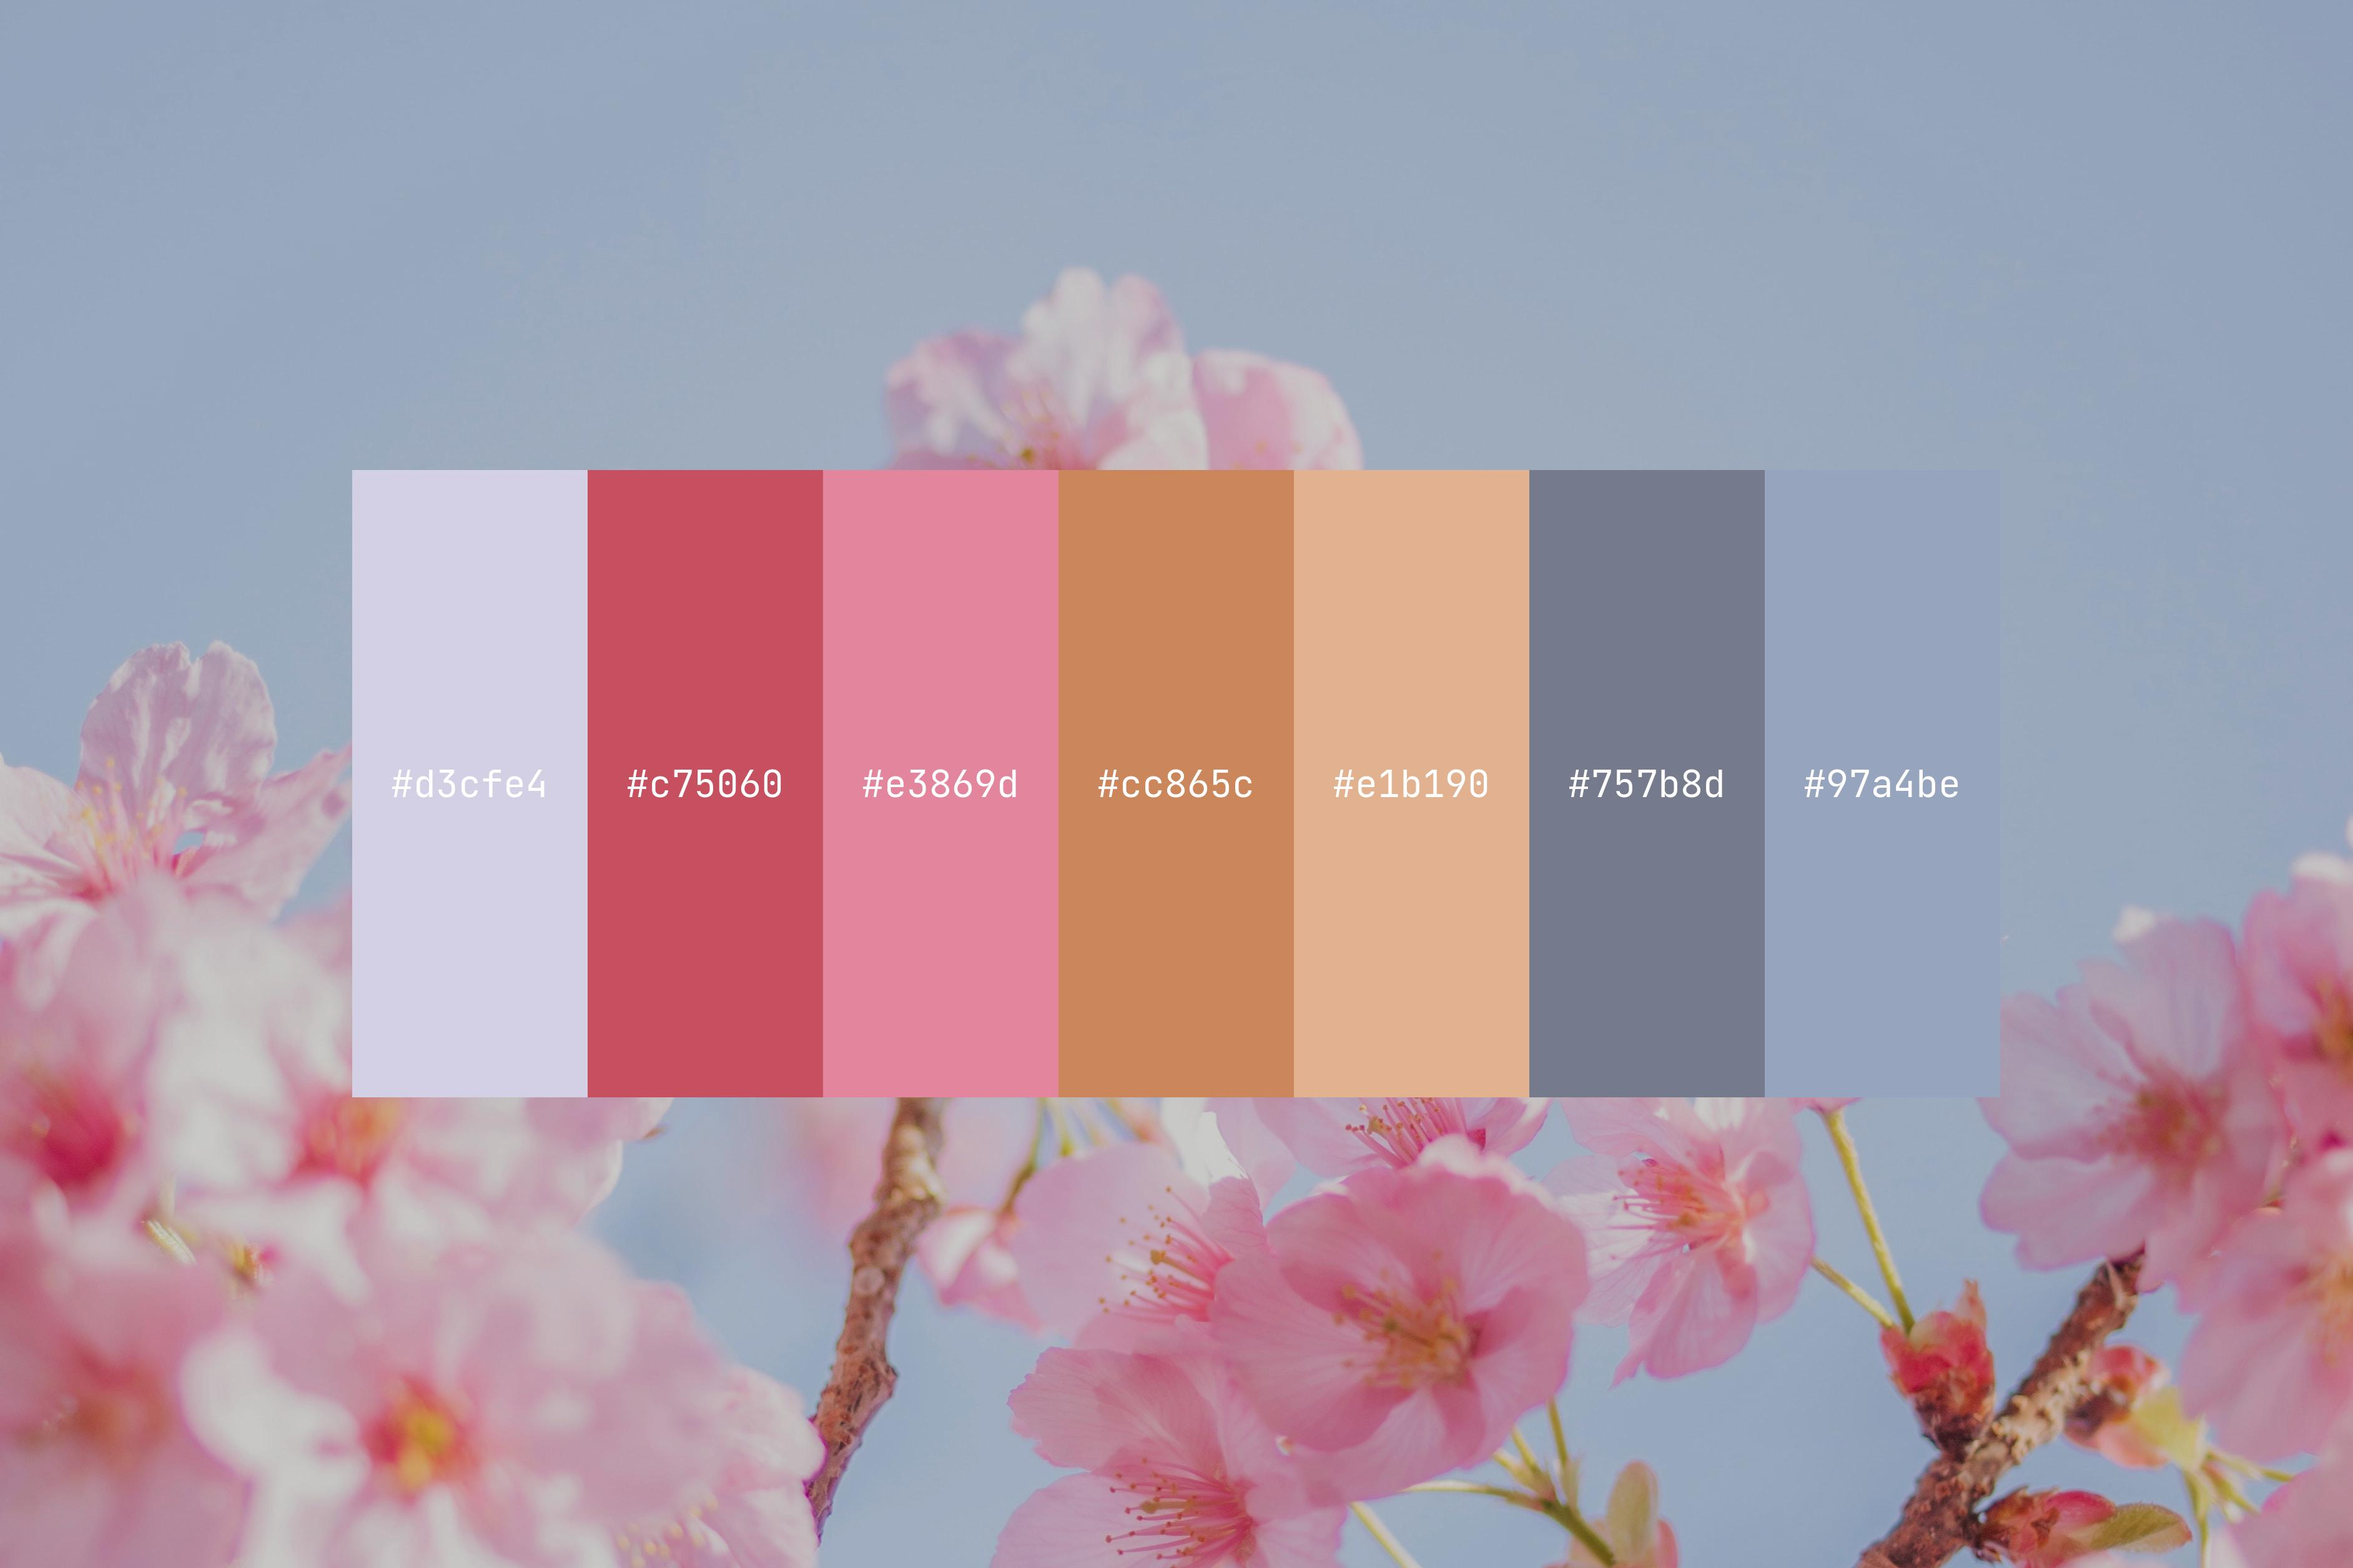
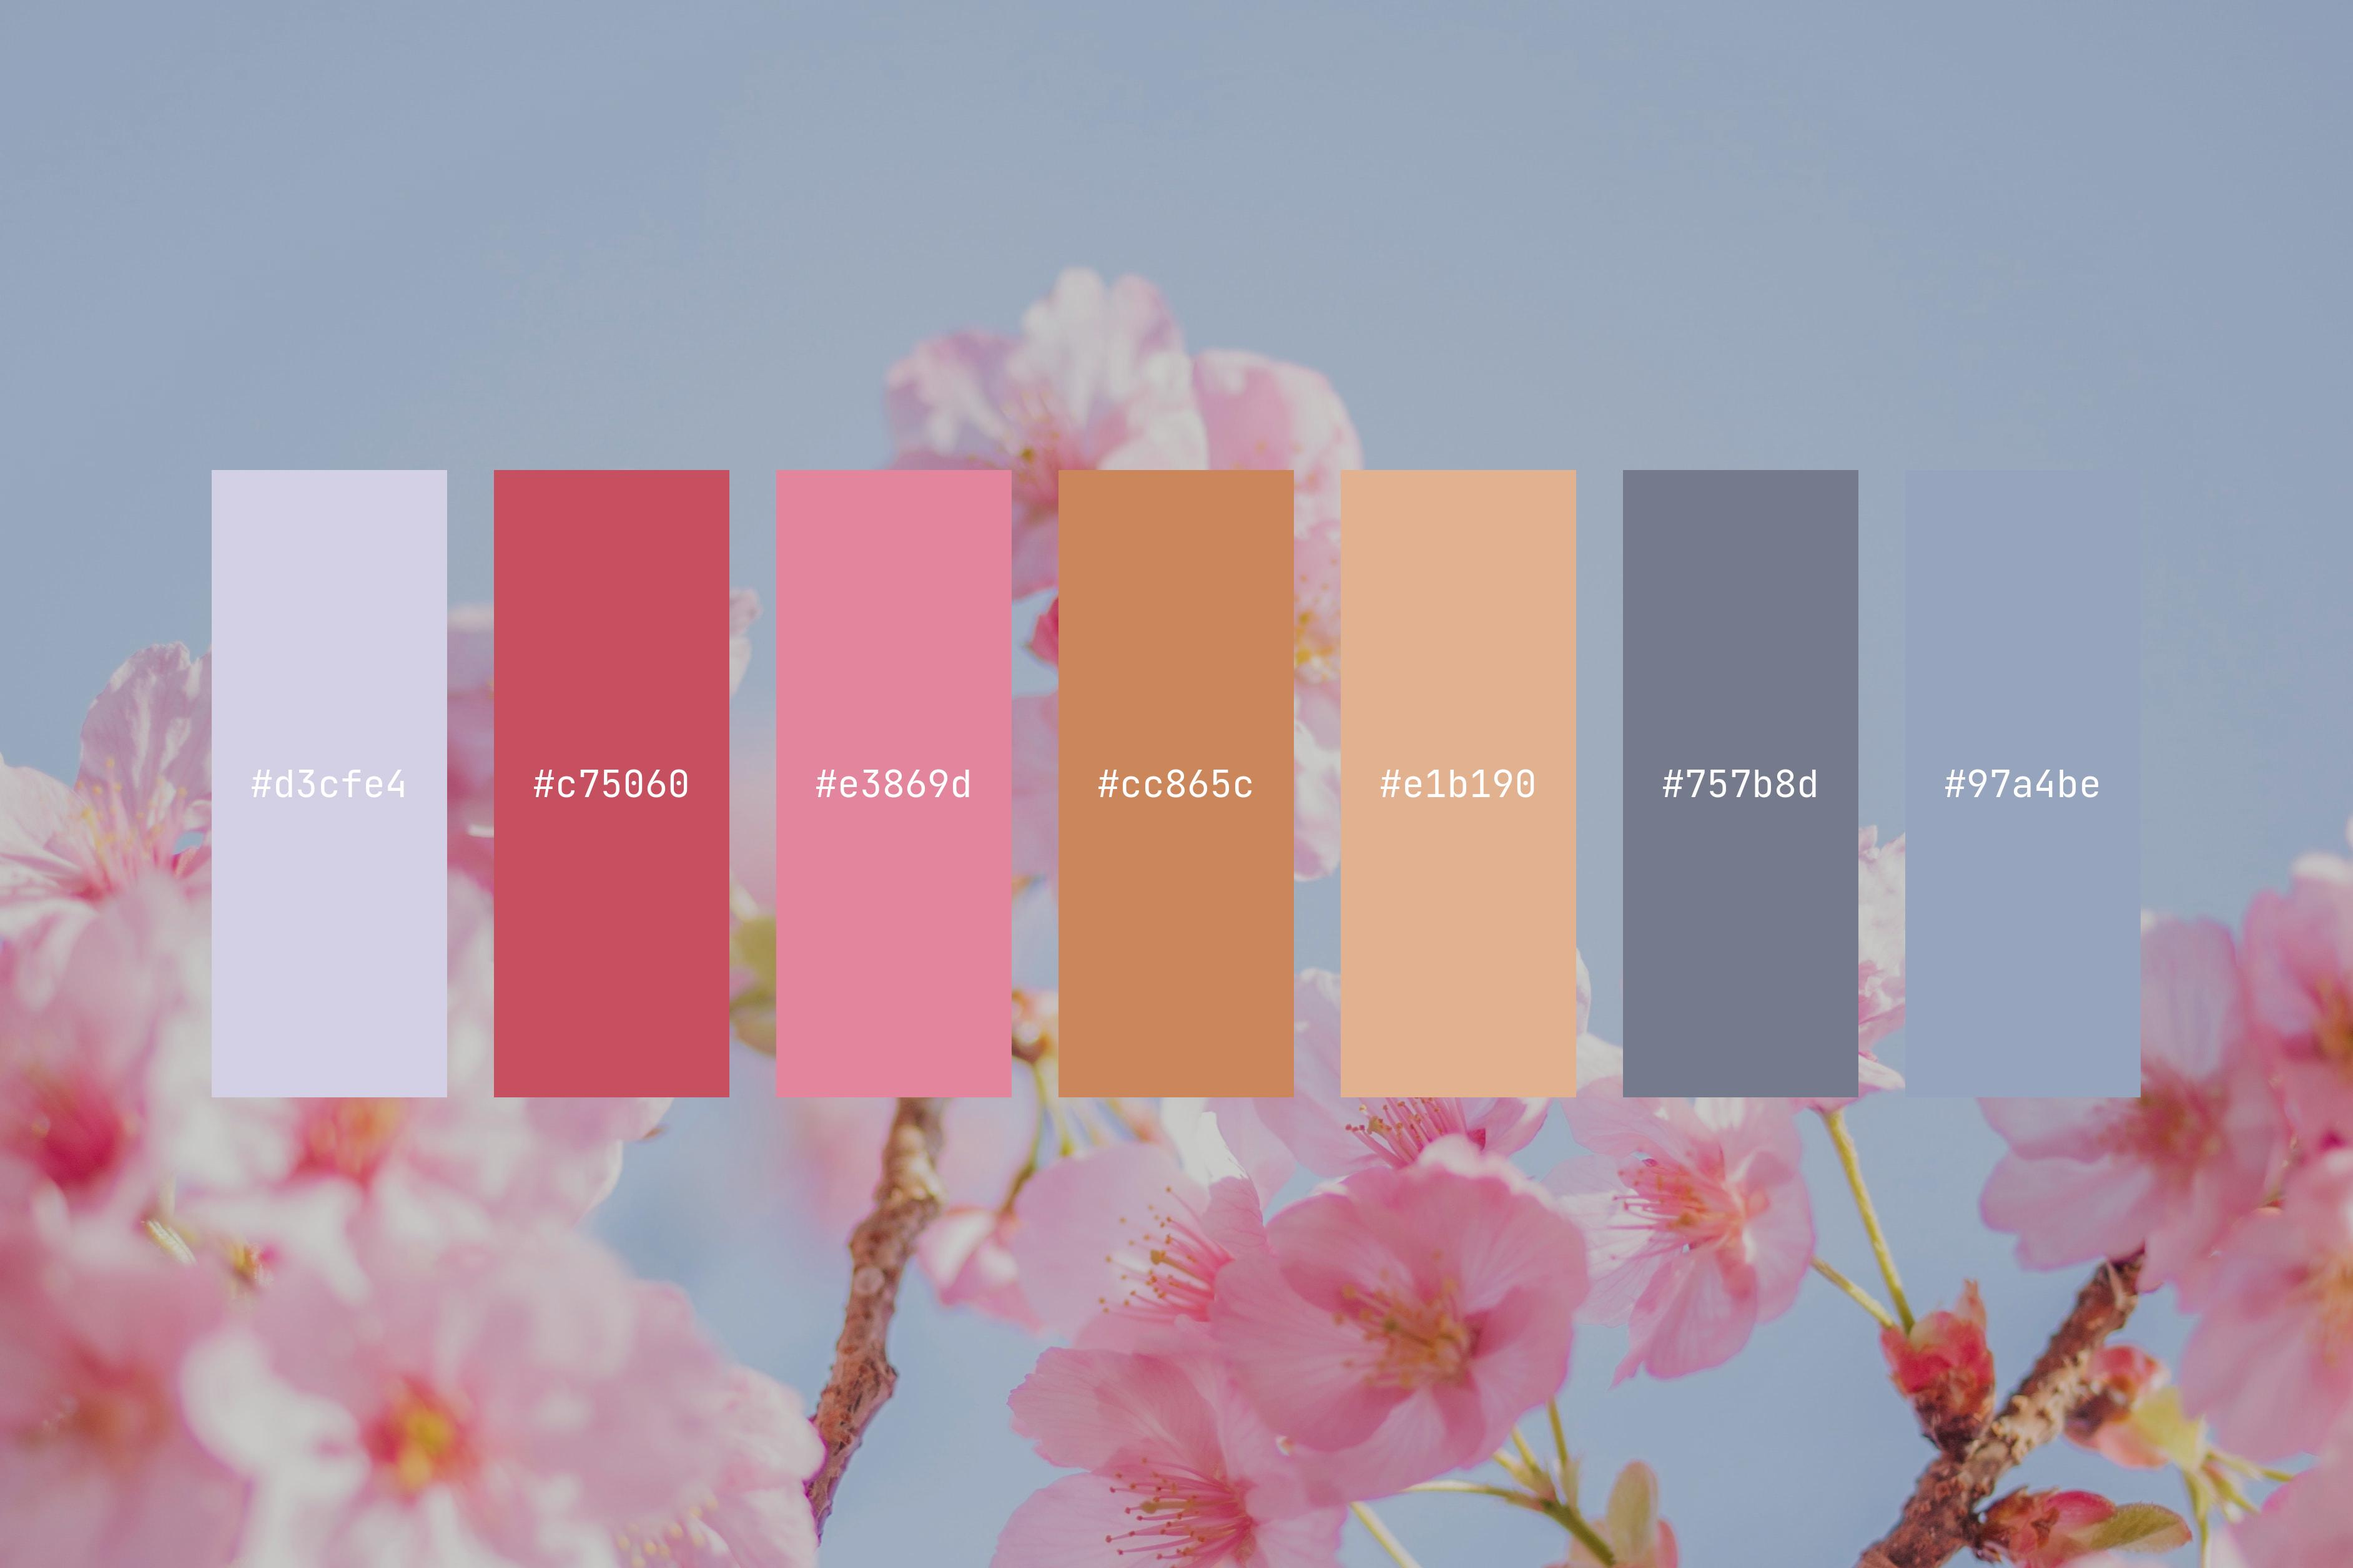
gap between blocks added

Changed region(s): [[0.0621, 0.2795, 0.4658, 0.7142], [0.5279, 0.2795, 0.9005, 0.7142], [0.8694, 0.621, 0.9315, 0.7142]]

diff --git a/main.py b/main.py
@@ -6,7 +6,7 @@ import math
 
 IMAGE_NAME = "image.jpg"
 COLOR_COUNT = 7
-BLOCK_GAP = .1  # percent
+BLOCK_GAP = .2  # percent
 FONT_NAME = "JetBrainsMono.ttf"
 DIR = os.getcwd()
 IMAGE_PATH = os.path.join(DIR, IMAGE_NAME)
@@ -48,21 +48,37 @@ def make_block(color: RGB, size: tuple[int, int]) -> Image.Image:
 
 
 def add_blocks(image: Image.Image, blocks: list[Image.Image]):
-    w, h = image.size
-    l = len(blocks)
-    for i, block in enumerate(blocks):
-        # Horizontal align
-        w_ = int((w - (block.width * l)) / 2 + block.width * i)
-        # Vertical align
-        h_ = int((h - block.height) / 2)
+    image_w, image_h = image.size
 
-        image.paste(block, (w_, h_))
+    blocks_len = sum(block.width for block in blocks)
+    prev_block_width = 0
+    prev_w = int((image_w - blocks_len) / 2)
+    for block in blocks:
+        w = prev_w + prev_block_width
+        prev_block_width = block.width
+        prev_w = w
+
+        h = int((image_h - block.height) / 2)
+
+        image.paste(block, (w, h))
+
+
+def add_gaps(blocks: list[Image.Image]) -> list[Image.Image]:
+    w = blocks[0].width
+    gap = Image.new('RGBA', (int(w*BLOCK_GAP), 0), (0, 0, 0, 0))
+    gap.putalpha(0)
+    new = []
+    for block in blocks:
+        new.append(block)
+        new.append(gap)
+    return new[:-1]
 
 
 with Image.open(IMAGE_PATH) as im:
     palette = get_palette(IMAGE_PATH, COLOR_COUNT)
     block_size = make_block_size(im.size)
     blocks = [make_block(color, block_size) for color in palette]
+    blocks = add_gaps(blocks)
     new_image = im.copy()
     enhancer = ImageEnhance.Brightness(new_image)
     new_image = enhancer.enhance(0.8)
